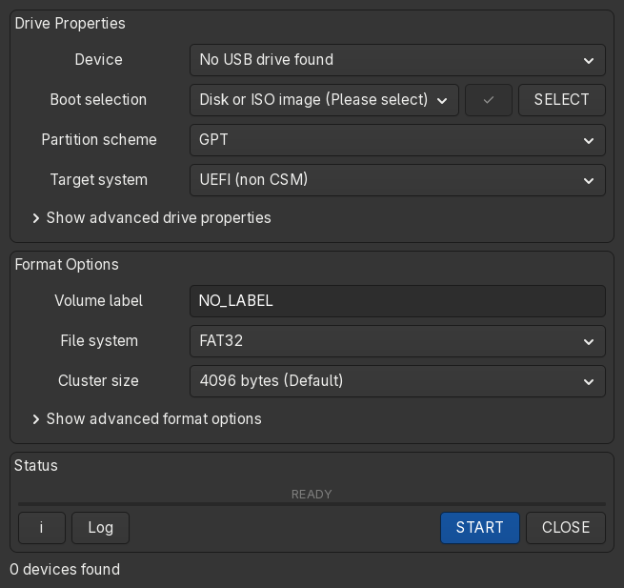
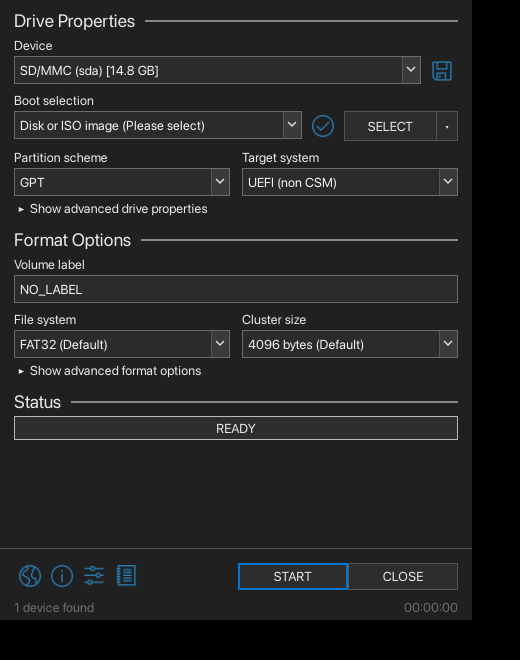
gui: window title says Rufux, refresh README screenshot

diff --git a/gui-tauri/ui/index.html b/gui-tauri/ui/index.html
@@ -3,7 +3,7 @@
 <head>
 <meta charset="utf-8">
 <meta name="viewport" content="width=device-width, initial-scale=1">
-<title>Rufus 2.1.0</title>
+<title>Rufux 2.1.0</title>
 <link rel="stylesheet" href="styles.css">
 <link rel="stylesheet" href="dark-overrides.css">
 </head>

diff --git a/README.md b/README.md
@@ -92,6 +92,9 @@ cmake -B build -DCMAKE_BUILD_TYPE=Release
 cmake --build build
 ctest --test-dir build
 sudo cmake --install build
+# ...and the window (needs Rust and cargo):
+cargo build --release --manifest-path gui-tauri/Cargo.toml
+sudo install -m755 gui-tauri/target/release/rufux-gui /usr/local/bin/
 ```
 
 Build needs Rust and cargo (window, `gui-tauri/`), OpenSSL and CMake. The
